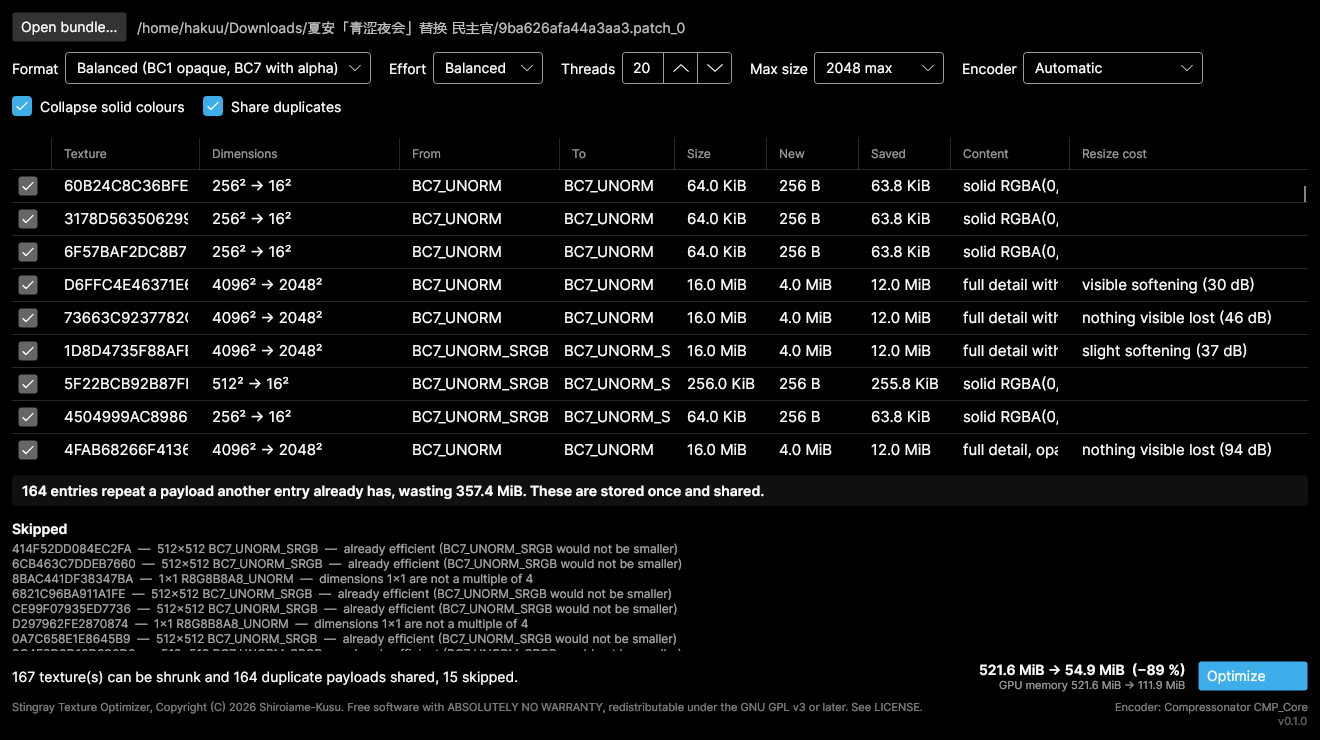
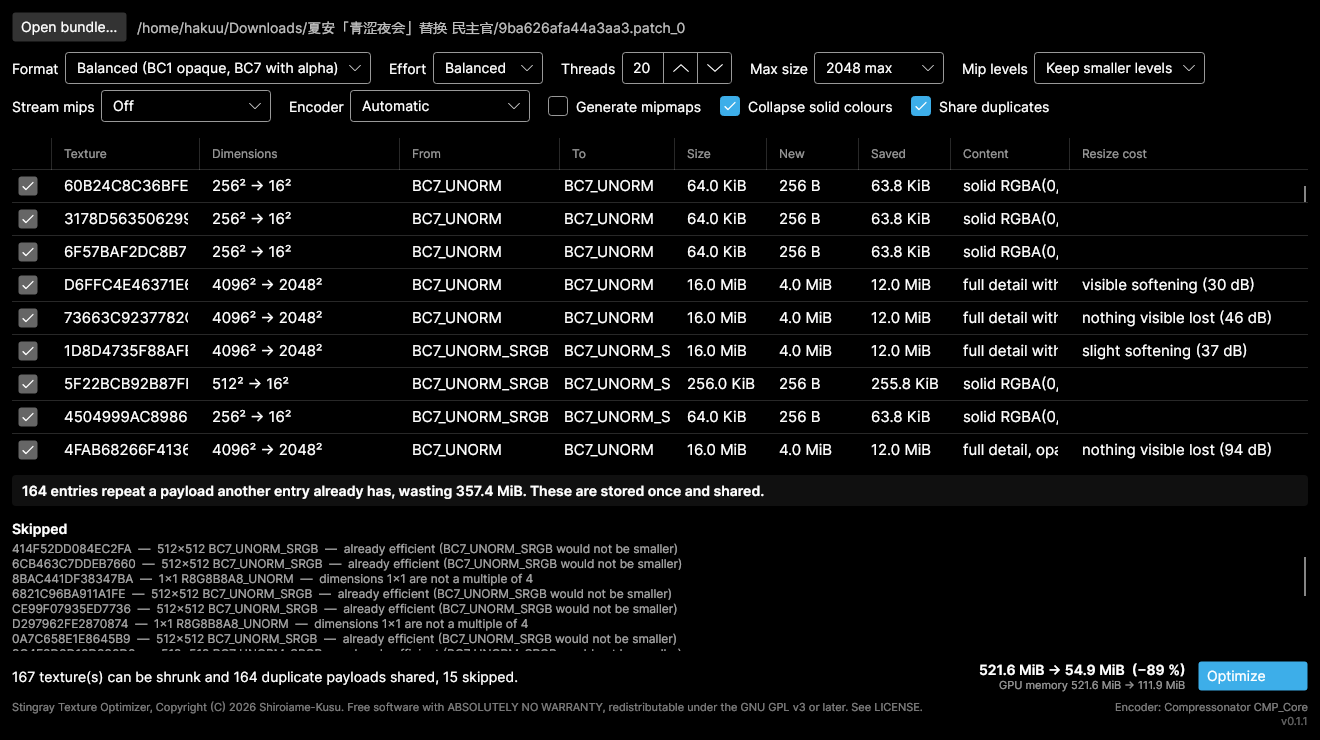
Retake the README screenshots
The window has gained Mip levels, Stream mips and Generate mipmaps since
these were taken, so both shots were missing the controls half the README
now talks about. Same two bundles and same settings, so the numbers in
the surrounding text still hold: 475.1 to 174.7 MiB, and 521.6 to 54.9
MiB under a 2048 cap.

The second one also shows the skipped list scrolling now instead of being
cut off mid-row.

Its caption said "the same bundle" while pointing at a different, much
larger mod. Fixed.

Changed region(s): [[0.4348, 0.0622, 0.8697, 0.1554], [0.0, 0.1243, 0.3417, 0.1554], [0.9629, 0.9635, 0.9939, 0.9946]]

diff --git a/README.md b/README.md
@@ -100,7 +100,7 @@ If you want to go further, the one setting worth touching is **Max size**. It
 halves oversized textures, which is the only option here that actually throws
 detail away. It is off by default.
 
-![The same bundle with a 2048 cap, showing the measured cost per texture](docs/images/02-resize.png)
+![A larger, already-compressed mod with a 2048 cap, showing the measured cost per texture](docs/images/02-resize.png)
 
 Turn it to `2048 max` and the **Resize cost** column fills in with what halving
 each texture actually costs, measured on its own pixels. Rows saying *nothing
